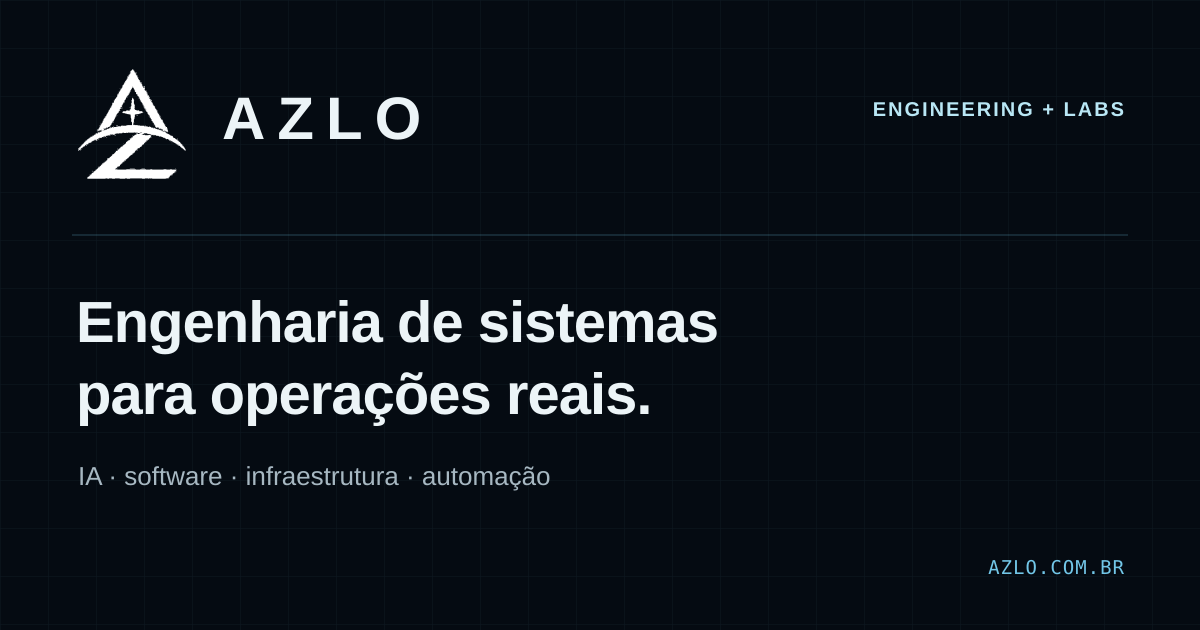
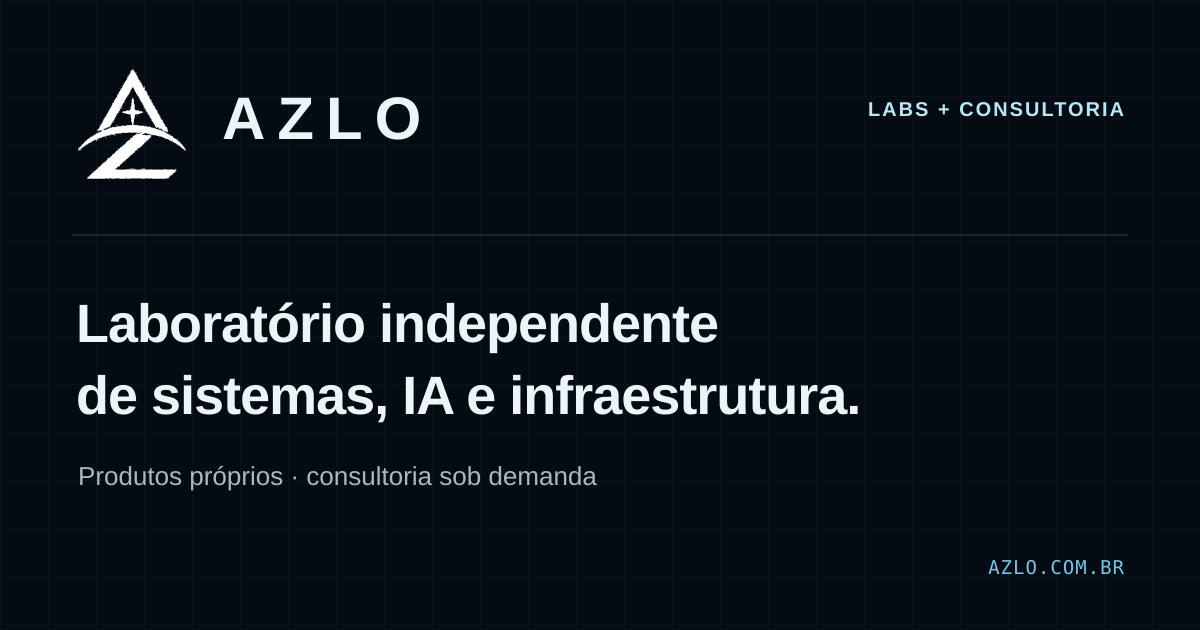
feat(site): reposition AZLO as independent lab with on-demand consulting
- Hero, navigation and metadata lead with the independent lab; Labs come first on the home page
- Engineering becomes on-demand consulting (/servicos keeps its URL)
- Founder highlighted with bio; Karson and Alan shown as collaborators
- Each Labs product states what visitors can do today (engagement)
- Social preview image and manifest updated to the new positioning

diff --git a/src/app/page.tsx b/src/app/page.tsx
@@ -1,7 +1,7 @@
 import Link from "next/link";
 import { ArrowRightIcon, ArrowUpRightIcon, MailIcon } from "@/components/site/Icons";
 import { ProductCard } from "@/components/site/ProductCard";
-import { products, services, featuredProjects, currentTeam, method, site, workTypeLabel } from "@/data/site";
+import { products, services, featuredProjects, currentTeam, founder, method, site, workTypeLabel } from "@/data/site";
 
 export default function Home() {
   return (
@@ -10,33 +10,19 @@ export default function Home() {
         <div className="hero__grid" aria-hidden="true" />
         <div className="site-frame hero__layout">
           <div className="hero__copy">
-            <p className="eyebrow eyebrow--light"><span />AZLO · ENGENHARIA DE SISTEMAS</p>
-            <h1>Engenharia para sistemas que precisam <em>funcionar no mundo real.</em></h1>
-            <p className="hero__lead">Entramos onde processo, dados e ambiente técnico precisam voltar a trabalhar juntos.</p>
-            <div className="hero__actions"><Link className="button button--primary" href="/contato">Descrever um problema <ArrowRightIcon /></Link><Link className="button button--secondary" href="/labs">Explorar Labs <ArrowRightIcon /></Link></div>
-            <p className="hero__proof">SISTEMAS · IA · INFRAESTRUTURA · AUTOMAÇÃO</p>
+            <p className="eyebrow eyebrow--light"><span />AZLO · LABORATÓRIO INDEPENDENTE</p>
+            <h1>Laboratório independente de sistemas, IA e <em>infraestrutura.</em></h1>
+            <p className="hero__lead">Produtos próprios para conhecimento, agentes, aprendizagem e operação, projetados por um médico que constrói sistemas. Também disponível para consultoria sob demanda.</p>
+            <div className="hero__actions"><Link className="button button--primary" href="/labs">Explorar Labs <ArrowRightIcon /></Link><Link className="button button--secondary" href="/contato">Conversar sobre um projeto <ArrowRightIcon /></Link></div>
+            <p className="hero__proof">LABS · PROJETOS · CONSULTORIA SOB DEMANDA</p>
           </div>
           <SystemTopology />
         </div>
       </section>
 
-      <section className="section topology-section">
-        <div className="site-frame">
-          <div className="section-heading section-heading--split"><div><p className="eyebrow"><span />MAPA DA OPERAÇÃO</p><h2>Contexto antes de <em>ferramenta.</em></h2></div><p>Uma operação deixa sinais. A engenharia organiza contexto antes de escolher a intervenção.</p></div>
-          <div className="topology-diagram"><p className="topology-diagram__flow mono-label">OPERAÇÃO → SINAL → CONTEXTO → INTERVENÇÃO → RETORNO</p><ol className="topology-rail"><li><span>01</span><strong>OPERAÇÃO</strong><small>Pessoas, rotinas, restrições</small></li><li><span>02</span><strong>SINAIS</strong><small>Dados, falhas, atrito</small></li><li className="is-active"><span>03</span><strong>CONTEXTO</strong><small>Fluxo, acesso, prioridade</small></li><li><span>04</span><strong>INTERVENÇÃO</strong><small>IA, software, infraestrutura</small></li><li><span>05</span><strong>RETORNO</strong><small>Operação mais clara</small></li></ol></div>
-        </div>
-      </section>
-
-      <section className="section engineering-section" id="engineering">
-        <div className="site-frame">
-          <div className="section-heading section-heading--split"><div><p className="eyebrow eyebrow--light"><span />AZLO / ENGINEERING</p><h2>Confiança na <em>execução.</em></h2></div><p>Capacidade organizada por tipo de intervenção. A tecnologia entra depois do problema e permanece ligada à operação.</p></div>
-          <div className="engineering-grid">{services.map((service) => <article className="engineering-module" key={service.index}><span className="engineering-module__number">{service.index}</span><p className="mono-label">{service.module}</p><h3>{service.title}</h3><p>{service.intervention}</p><ul>{service.capabilities.map((capability) => <li key={capability}>{capability}</li>)}</ul><Link href="/servicos">Ver módulo <ArrowRightIcon /></Link></article>)}</div>
-        </div>
-      </section>
-
       <section className="section labs-section" id="labs">
         <div className="site-frame">
-          <div className="section-heading section-heading--split"><div><p className="eyebrow"><span />AZLO / LABS</p><h2>Sistemas para raciocínio humano e <em>operação.</em></h2></div><p>Produtos e sistemas experimentais para conhecimento, agentes, aprendizado e infraestrutura, desenvolvidos dentro da AZLO.</p></div>
+          <div className="section-heading section-heading--split"><div><p className="eyebrow"><span />AZLO / LABS</p><h2>O que está sendo <em>construído.</em></h2></div><p>Sistemas próprios em estágios diferentes, do conceito à beta fechada. Cada um indica o que você pode fazer com ele hoje.</p></div>
           <div className="labs-grid">{products.map((product) => <ProductCard key={product.slug} product={product} featured={product.slug === "mnemusa"} />)}</div>
           <p className="labs-grid__hint mono-label">Use a faixa horizontal para explorar os sistemas <span aria-hidden="true">→</span></p>
           <Link className="section-link" href="/labs">Abrir matriz de produtos <ArrowRightIcon /></Link>
@@ -50,6 +36,22 @@ export default function Home() {
         </div>
       </section>
 
+      <section className="people-strip" id="company"><div className="site-frame people-strip__layout"><div><p className="eyebrow"><span />QUEM ESTÁ POR TRÁS</p><h2>Um fundador, <em>colaboradores próximos.</em></h2></div><div>{founder ? <p><b>{founder.name}</b> — {founder.bio}</p> : null}<ul>{currentTeam.map((member) => <li key={member.name}><b>{member.name}</b><span>{member.group === "founder" ? "Fundador" : `Colaborador · ${member.role}`}</span></li>)}</ul><Link className="text-link" href="/sobre#team">Conhecer a equipe <ArrowRightIcon /></Link></div></div></section>
+
+      <section className="section topology-section">
+        <div className="site-frame">
+          <div className="section-heading section-heading--split"><div><p className="eyebrow"><span />MAPA DA OPERAÇÃO</p><h2>Contexto antes de <em>ferramenta.</em></h2></div><p>Nos produtos e na consultoria, o ponto de partida é o mesmo: entender a operação antes de escolher a tecnologia.</p></div>
+          <div className="topology-diagram"><p className="topology-diagram__flow mono-label">OPERAÇÃO → SINAL → CONTEXTO → INTERVENÇÃO → RETORNO</p><ol className="topology-rail"><li><span>01</span><strong>OPERAÇÃO</strong><small>Pessoas, rotinas, restrições</small></li><li><span>02</span><strong>SINAIS</strong><small>Dados, falhas, atrito</small></li><li className="is-active"><span>03</span><strong>CONTEXTO</strong><small>Fluxo, acesso, prioridade</small></li><li><span>04</span><strong>INTERVENÇÃO</strong><small>IA, software, infraestrutura</small></li><li><span>05</span><strong>RETORNO</strong><small>Operação mais clara</small></li></ol></div>
+        </div>
+      </section>
+
+      <section className="section engineering-section" id="consultoria">
+        <div className="site-frame">
+          <div className="section-heading section-heading--split"><div><p className="eyebrow eyebrow--light"><span />AZLO / CONSULTORIA</p><h2>Consultoria sob <em>demanda.</em></h2></div><p>Além dos Labs, a AZLO aceita projetos pontuais nas mesmas áreas em que constrói: sistemas de saúde, IA, infraestrutura e automação.</p></div>
+          <div className="engineering-grid">{services.map((service) => <article className="engineering-module" key={service.index}><span className="engineering-module__number">{service.index}</span><p className="mono-label">{service.module}</p><h3>{service.title}</h3><p>{service.intervention}</p><ul>{service.capabilities.map((capability) => <li key={capability}>{capability}</li>)}</ul><Link href="/servicos">Ver área <ArrowRightIcon /></Link></article>)}</div>
+        </div>
+      </section>
+
       <section className="section method-section">
         <div className="site-frame">
           <div className="section-heading section-heading--split"><div><p className="eyebrow"><span />MÉTODO</p><h2>Entender. Desenhar. Construir. <em>Operar.</em></h2></div><p>A sequência reduz incerteza sem separar arquitetura, manutenção e responsabilidade.</p></div>
@@ -58,9 +60,7 @@ export default function Home() {
         </div>
       </section>
 
-      <section className="people-strip" id="company"><div className="site-frame people-strip__layout"><div><p className="eyebrow"><span />EQUIPE</p><h2>Pessoas próximas do <em>problema.</em></h2></div><div><p>Quem projeta participa da responsabilidade por manter o sistema compreensível, operável e rastreável.</p><ul>{currentTeam.map((member) => <li key={member.name}><b>{member.name}</b><span>{member.role}</span></li>)}</ul><Link className="text-link" href="/sobre#team">Conhecer equipe <ArrowRightIcon /></Link></div></div></section>
-
-      <section className="contact-band"><div className="site-frame contact-band__layout"><div><p className="eyebrow eyebrow--light"><span />CONTATO / CONTEXTO</p><h2>Tem uma operação que precisa voltar a fluir?</h2></div><div><p>Descreva o sistema, a fricção e o resultado que precisa acontecer.</p><a className="contact-band__email" href={`mailto:${site.email}?subject=Conversa%20com%20a%20AZLO`}><MailIcon /><span>Descrever um problema</span><ArrowUpRightIcon /></a><small>Abre seu cliente de e-mail. Não envie dados clínicos identificáveis, credenciais ou tokens.</small></div></div></section>
+      <section className="contact-band"><div className="site-frame contact-band__layout"><div><p className="eyebrow eyebrow--light"><span />CONTATO</p><h2>Gostou de um projeto ou tem um problema parecido?</h2></div><div><p>Conte o contexto: interesse em um produto dos Labs, uma colaboração ou uma consultoria pontual.</p><a className="contact-band__email" href={`mailto:${site.email}?subject=Conversa%20com%20a%20AZLO`}><MailIcon /><span>Escrever para a AZLO</span><ArrowUpRightIcon /></a><small>Abre seu cliente de e-mail. Não envie dados clínicos identificáveis, credenciais ou tokens.</small></div></div></section>
     </main>
   );
 }

diff --git a/src/data/site.ts b/src/data/site.ts
@@ -51,6 +51,7 @@ export type LabProduct = {
   currentState?: { version: string; label: string }[];
   roadmap?: string[];
   related: ProductSlug[];
+  engagement: { label: string; text: string };
 };
 
 export type TeamMember = {
@@ -59,20 +60,22 @@ export type TeamMember = {
   expertise: string[];
   initials: string;
   linkedin?: string;
+  group: "founder" | "collaborator";
+  bio?: string;
 };
 
 export const site = {
   name: "AZLO",
-  description: "Engenharia de sistemas, IA, software e infraestrutura para operações reais.",
+  description: "Laboratório independente de sistemas, IA e infraestrutura, com consultoria sob demanda.",
   email: "contato@azlo.com.br",
   url: "https://azlo.com.br",
 };
 
 export const navigation = [
-  { href: "/servicos", label: "Engenharia", shortLabel: "Engenharia" },
   { href: "/labs", label: "Labs", shortLabel: "Labs" },
   { href: "/projetos", label: "Projetos", shortLabel: "Projetos" },
-  { href: "/sobre#method", label: "Método", shortLabel: "Método" },
+  { href: "/servicos", label: "Consultoria", shortLabel: "Consultoria" },
+  { href: "/sobre", label: "Sobre", shortLabel: "Sobre" },
 ];
 
 export const services: Service[] = [
@@ -130,6 +133,7 @@ export const products: LabProduct[] = [
     currentState: [{ version: "v0.10.0", label: "ALPHA · ROADMAP PRINCIPAL CONCLUÍDO" }],
     roadmap: ["v0.10.0 conclui o roadmap principal", "Próximas decisões seguem pendentes; não são escopo aprovado"],
     related: ["hermes", "thoth", "atlas"],
+    engagement: { label: "CONVERSAR", text: "Aberto a conversas sobre arquitetura e uso experimental. Ainda sem licença definida; não use com dados reais." },
   },
   {
     slug: "thoth",
@@ -143,6 +147,7 @@ export const products: LabProduct[] = [
     system: "Thoth trabalha na camada de preparação e curadoria, mantendo a revisão humana como fronteira de publicação.",
     architecture: ["Pipelines de geração e edição", "Curadoria e auditoria", "Pré-pesagem editorial", "Revisão humana antes da publicação"],
     related: ["logos", "odin", "mnemusa"],
+    engagement: { label: "ACOMPANHAR", text: "Em estruturação. Acompanhe a evolução ou converse sobre curadoria de material educacional." },
   },
   {
     slug: "logos",
@@ -156,6 +161,7 @@ export const products: LabProduct[] = [
     system: "A plataforma conecta sessão, feedback, rating e próxima seleção. A vertical pública atual é apresentada como Logos / Med.",
     architecture: ["Sessões de prática", "Feedback e rating", "Seleção adaptativa", "Vertical Logos / Med"],
     related: ["thoth", "hermes"],
+    engagement: { label: "PEDIR ACESSO", text: "Beta fechada. Peça acesso para testar a vertical Logos / Med." },
   },
   {
     slug: "odin",
@@ -169,6 +175,7 @@ export const products: LabProduct[] = [
     system: "Odin organiza o caminho de pesquisa e recuperação; nomes técnicos como odin-cli e odin-core permanecem internos quando necessários.",
     architecture: ["Aquisição por DOI", "Camadas de recuperação", "Proveniência de fontes", "Fallback manual documentado"],
     related: ["thoth", "mnemusa"],
+    engagement: { label: "ACOMPANHAR", text: "Em incubação. Aberto a conversas sobre recuperação de literatura e pesquisa." },
   },
   {
     slug: "anubis",
@@ -182,6 +189,7 @@ export const products: LabProduct[] = [
     system: "Anubis é uma definição de sistema em estágio conceitual nesta superfície pública; não representa um produto operacional já disponível.",
     architecture: ["Inventário de artefatos", "Reconciliação de estado", "Preservação de rollback", "Modernização por etapas"],
     related: ["atlas", "hermes"],
+    engagement: { label: "ACOMPANHAR", text: "Conceito. Ainda não há versão disponível para uso." },
   },
   {
     slug: "hermes",
@@ -196,6 +204,7 @@ export const products: LabProduct[] = [
     system: "Hermes conecta interfaces, documentos e agentes com atenção à autorização, rastreabilidade e operação local quando aplicável.",
     architecture: ["Integração entre agentes", "Comunicação e documentos", "Interfaces operacionais", "Contribuições open source documentadas"],
     related: ["mnemusa", "atlas", "logos"],
+    engagement: { label: "COLABORAR", text: "Código aberto. Conversas técnicas e contribuições são bem-vindas." },
   },
   {
     slug: "atlas",
@@ -209,6 +218,7 @@ export const products: LabProduct[] = [
     system: "Atlas organiza investigação e operação assistida, mantendo ações limitadas, aprovação e rechecagem como fronteiras do sistema.",
     architecture: ["Sinais de Linux", "Fatos, hipóteses e linha do tempo", "Ações assistidas com aprovação", "Auditoria local"],
     related: ["anubis", "hermes", "mnemusa"],
+    engagement: { label: "CONVERSAR", text: "Em P&D. Aberto a conversas técnicas; ainda não há versão disponível para uso." },
   },
 ];
 
@@ -287,10 +297,12 @@ export const projects: Project[] = [
 export const currentTeam: TeamMember[] = [
   {
     name: "Gabriel Lorençato",
-    role: "Projetista",
-    expertise: ["Engenharia de Eficiência", "Otimização de Sistemas", "Medicina"],
+    role: "Fundador · médico e projetista de sistemas",
+    expertise: ["Medicina", "Engenharia de Eficiência", "Otimização de Sistemas"],
     initials: "GL",
     linkedin: "https://www.linkedin.com/in/gabriel-lorencato-593b44218",
+    group: "founder",
+    bio: "Médico. Concebe, projeta e constrói a maior parte dos sistemas da AZLO, do produto à infraestrutura.",
   },
   {
     name: "Karson Godinho",
@@ -298,6 +310,7 @@ export const currentTeam: TeamMember[] = [
     expertise: ["Engenharia de Dados", "Cybersegurança", "Banco Vetorial"],
     initials: "KG",
     linkedin: "https://www.linkedin.com/in/karson-godinho-6b88981b6",
+    group: "collaborator",
   },
   {
     name: "Alan Lima",
@@ -305,6 +318,7 @@ export const currentTeam: TeamMember[] = [
     expertise: ["PostgreSQL", "Oracle", "MongoDB", "Cloud"],
     initials: "AL",
     linkedin: "https://www.linkedin.com/in/alan-lima-7568451a5",
+    group: "collaborator",
   },
 ];
 
@@ -314,6 +328,9 @@ export const method = [
   { number: "03", title: "Construir", label: "CONSTRUIR", text: "Integrar e validar uma intervenção que caiba no ambiente real." },
   { number: "04", title: "Operar", label: "OPERAR", text: "Observar, documentar e evoluir com quem mantém o sistema." },
 ];
+
+export const founder = currentTeam.find((member) => member.group === "founder");
+export const collaborators = currentTeam.filter((member) => member.group === "collaborator");
 
 export const featuredProjects = projects.filter((project) => project.featured);
 export const caseStudyProjects = projects.filter((project) => project.caseStudy);

diff --git a/src/app/servicos/page.tsx b/src/app/servicos/page.tsx
@@ -3,8 +3,8 @@ import Link from "next/link";
 import { ArrowRightIcon } from "@/components/site/Icons";
 import { services } from "@/data/site";
 
-export const metadata: Metadata = { title: "Engenharia", description: "Sistemas clínicos, IA integrada, infraestrutura, dados e automação para operações reais.", alternates: { canonical: "/servicos" }, openGraph: { title: "Engenharia | AZLO", description: "Sistemas clínicos, IA integrada, infraestrutura, dados e automação para operações reais.", url: "/servicos" } };
+export const metadata: Metadata = { title: "Consultoria", description: "Áreas de consultoria sob demanda: sistemas de saúde, IA, infraestrutura, dados e automação.", alternates: { canonical: "/servicos" }, openGraph: { title: "Consultoria | AZLO", description: "Áreas de consultoria sob demanda: sistemas de saúde, IA, infraestrutura, dados e automação.", url: "/servicos" } };
 
 export default function ServicesPage() {
-  return <main id="main" className="engineering-page"><section className="page-hero page-hero--dark"><div className="page-hero__grid" aria-hidden="true" /><div className="site-frame"><p className="breadcrumb mono-label">AZLO / ENGINEERING</p><p className="eyebrow eyebrow--light"><span />ENGENHARIA DE SISTEMAS</p><h1>Intervenções que começam pelo <em>ambiente.</em></h1><p>Organizamos a atuação pelo que precisa mudar na operação — e usamos tecnologia como meio, não como produto isolado.</p><Link className="button button--primary page-hero__cta" href="/contato">Descrever um problema <ArrowRightIcon /></Link></div></section><section className="section section--light"><div className="site-frame"><div className="section-heading"><p className="eyebrow"><span />MÓDULOS DE ENGENHARIA</p><h2>Quatro camadas para fazer o sistema <em>operar.</em></h2></div><div className="engineering-grid engineering-grid--page">{services.map((service) => <article className="engineering-module" key={service.index}><span className="engineering-module__number">{service.index}</span><p className="mono-label">{service.module}</p><h3>{service.title}</h3><p>{service.intervention}</p><ul>{service.capabilities.map((capability) => <li key={capability}>{capability}</li>)}</ul><a href={`mailto:contato@azlo.com.br?subject=${encodeURIComponent(service.nextStep)}`}>{service.nextStep} <ArrowRightIcon /></a></article>)}</div></div></section><section className="section engineering-principles"><div className="site-frame"><div className="section-heading section-heading--split"><div><p className="eyebrow eyebrow--light"><span />LIMITES</p><h2>Contexto antes de <em>ferramenta.</em></h2></div><p>LLMs, agentes, RAG, bancos vetoriais, APIs, VPS e pipelines fazem parte do repertório. A escolha depende dos dados, permissões, infraestrutura e manutenção que o contexto suporta.</p></div><ul className="principle-rail"><li><span>01</span><strong>Observe</strong><p>Leia fluxo, sinais e impacto antes de intervir.</p></li><li><span>02</span><strong>Preserve</strong><p>Priorize consentimento, segurança, continuidade e reversibilidade.</p></li><li><span>03</span><strong>Opere</strong><p>Entregue uma mudança que possa ser mantida e compreendida.</p></li></ul></div></section></main>;
+  return <main id="main" className="engineering-page"><section className="page-hero page-hero--dark"><div className="page-hero__grid" aria-hidden="true" /><div className="site-frame"><p className="breadcrumb mono-label">AZLO / CONSULTORIA</p><p className="eyebrow eyebrow--light"><span />CONSULTORIA SOB DEMANDA</p><h1>Consultoria nas áreas em que o lab <em>constrói.</em></h1><p>Diagnósticos, projetos pontuais e colaborações em sistemas de saúde, IA, infraestrutura e automação, com a mesma exigência aplicada aos produtos próprios.</p><Link className="button button--primary page-hero__cta" href="/contato">Conversar sobre um projeto <ArrowRightIcon /></Link></div></section><section className="section section--light"><div className="site-frame"><div className="section-heading"><p className="eyebrow"><span />ÁREAS DE ATUAÇÃO</p><h2>Quatro áreas de <em>consultoria.</em></h2></div><div className="engineering-grid engineering-grid--page">{services.map((service) => <article className="engineering-module" key={service.index}><span className="engineering-module__number">{service.index}</span><p className="mono-label">{service.module}</p><h3>{service.title}</h3><p>{service.intervention}</p><ul>{service.capabilities.map((capability) => <li key={capability}>{capability}</li>)}</ul><a href={`mailto:contato@azlo.com.br?subject=${encodeURIComponent(service.nextStep)}`}>{service.nextStep} <ArrowRightIcon /></a></article>)}</div></div></section><section className="section engineering-principles"><div className="site-frame"><div className="section-heading section-heading--split"><div><p className="eyebrow eyebrow--light"><span />LIMITES</p><h2>Contexto antes de <em>ferramenta.</em></h2></div><p>LLMs, agentes, RAG, bancos vetoriais, APIs, VPS e pipelines fazem parte do repertório. A escolha depende dos dados, permissões, infraestrutura e manutenção que o contexto suporta.</p></div><ul className="principle-rail"><li><span>01</span><strong>Observe</strong><p>Leia fluxo, sinais e impacto antes de intervir.</p></li><li><span>02</span><strong>Preserve</strong><p>Priorize consentimento, segurança, continuidade e reversibilidade.</p></li><li><span>03</span><strong>Opere</strong><p>Entregue uma mudança que possa ser mantida e compreendida.</p></li></ul></div></section></main>;
 }

diff --git a/src/app/sobre/page.tsx b/src/app/sobre/page.tsx
@@ -4,8 +4,8 @@ import { ArrowRightIcon } from "@/components/site/Icons";
 import { TeamCard } from "@/components/site/TeamCard";
 import { currentTeam, method } from "@/data/site";
 
-export const metadata: Metadata = { title: "Método e equipe", description: "Como a AZLO entende, desenha, constrói e opera sistemas para contextos reais.", alternates: { canonical: "/sobre" }, openGraph: { title: "Método e equipe | AZLO", description: "Como a AZLO entende, desenha, constrói e opera sistemas para contextos reais.", url: "/sobre" } };
+export const metadata: Metadata = { title: "Método e equipe", description: "Quem está por trás da AZLO e como o laboratório entende, desenha, constrói e opera sistemas.", alternates: { canonical: "/sobre" }, openGraph: { title: "Método e equipe | AZLO", description: "Quem está por trás da AZLO e como o laboratório entende, desenha, constrói e opera sistemas.", url: "/sobre" } };
 
 export default function AboutPage() {
-  return <main id="main" className="company-page"><section className="page-hero page-hero--dark"><div className="page-hero__grid" aria-hidden="true" /><div className="site-frame"><p className="breadcrumb mono-label">AZLO / SOBRE</p><p className="eyebrow eyebrow--light"><span />MÉTODO / RESPONSABILIDADE</p><h1>Projetar para a realidade é uma escolha de <em>engenharia.</em></h1><p>A AZLO trabalha entre software, infraestrutura, dados e saúde. A medida é simples: o sistema precisa ser entendível, operável e responsável.</p></div></section><section className="section section--light" id="method"><div className="site-frame"><div className="section-heading section-heading--split"><div><p className="eyebrow"><span />MÉTODO</p><h2>Contexto antes de <em>ferramenta.</em></h2></div><p>Uma sequência curta para transformar um problema em sistema operável, com responsabilidades visíveis.</p></div><ol className="method-rail method-rail--large">{method.map((item) => <li key={item.number}><span>{item.number} / {item.label}</span><h3>{item.title}</h3><p>{item.text}</p></li>)}</ol></div></section><section className="section team-section" id="team"><div className="site-frame"><div className="section-heading section-heading--split"><div><p className="eyebrow"><span />EQUIPE ATUAL</p><h2>Pessoas próximas do <em>problema.</em></h2></div><p>Quem projeta e responde pelo sistema permanece visível no trabalho.</p></div><div className="team-grid">{currentTeam.map((member) => <TeamCard key={member.name} member={member} />)}</div><div className="future-team"><p className="eyebrow"><span />EXPANSÃO DA EQUIPE</p><h2>Expandimos capacidade com critério, quando o sistema pede.</h2><p className="future-team__copy">A AZLO conversa seletivamente sobre produto, engenharia e design. Não há vagas abertas anunciadas nesta página.</p><Link className="section-link" href="/contato">Falar com a AZLO <ArrowRightIcon /></Link></div></div></section></main>;
+  return <main id="main" className="company-page"><section className="page-hero page-hero--dark"><div className="page-hero__grid" aria-hidden="true" /><div className="site-frame"><p className="breadcrumb mono-label">AZLO / SOBRE</p><p className="eyebrow eyebrow--light"><span />MÉTODO / RESPONSABILIDADE</p><h1>Projetar para a realidade é uma escolha de <em>engenharia.</em></h1><p>A AZLO é um laboratório independente fundado por Gabriel Lorençato, médico que projeta e constrói sistemas. Trabalha entre software, infraestrutura, dados e saúde, com produtos próprios e consultoria sob demanda. A medida é simples: o sistema precisa ser entendível, operável e responsável.</p></div></section><section className="section section--light" id="method"><div className="site-frame"><div className="section-heading section-heading--split"><div><p className="eyebrow"><span />MÉTODO</p><h2>Contexto antes de <em>ferramenta.</em></h2></div><p>Uma sequência curta para transformar um problema em sistema operável, com responsabilidades visíveis.</p></div><ol className="method-rail method-rail--large">{method.map((item) => <li key={item.number}><span>{item.number} / {item.label}</span><h3>{item.title}</h3><p>{item.text}</p></li>)}</ol></div></section><section className="section team-section" id="team"><div className="site-frame"><div className="section-heading section-heading--split"><div><p className="eyebrow"><span />EQUIPE</p><h2>Um fundador, <em>colaboradores próximos.</em></h2></div><p>O fundador conduz a maior parte do projeto e da construção; os colaboradores somam experiência em dados, segurança e bancos de dados.</p></div><div className="team-grid">{currentTeam.map((member) => <TeamCard key={member.name} member={member} />)}</div><div className="future-team"><p className="eyebrow"><span />EXPANSÃO DA EQUIPE</p><h2>Expandimos capacidade com critério, quando o sistema pede.</h2><p className="future-team__copy">A AZLO conversa seletivamente sobre produto, engenharia e design. Não há vagas abertas anunciadas nesta página.</p><Link className="section-link" href="/contato">Falar com a AZLO <ArrowRightIcon /></Link></div></div></section></main>;
 }

diff --git a/src/app/contato/page.tsx b/src/app/contato/page.tsx
@@ -4,12 +4,12 @@ import { ProblemForm } from "@/components/site/ProblemForm";
 import { MailIcon, ArrowUpRightIcon } from "@/components/site/Icons";
 import { site } from "@/data/site";
 
-export const metadata: Metadata = { title: "Contato", description: "Descreva um problema de IA, infraestrutura, sistemas, dados ou automação para a AZLO.", alternates: { canonical: "/contato" }, openGraph: { title: "Contato | AZLO", description: "Descreva um problema de IA, infraestrutura, sistemas, dados ou automação para a AZLO.", url: "/contato" } };
+export const metadata: Metadata = { title: "Contato", description: "Fale com a AZLO sobre um produto dos Labs, uma colaboração ou uma consultoria em IA, infraestrutura, sistemas, dados ou automação.", alternates: { canonical: "/contato" }, openGraph: { title: "Contato | AZLO", description: "Fale com a AZLO sobre um produto dos Labs, uma colaboração ou uma consultoria em IA, infraestrutura, sistemas, dados ou automação.", url: "/contato" } };
 
 export default function ContactPage() {
   return (
     <main id="main" className="contact-page">
-      <section className="page-hero page-hero--dark contact-hero"><div className="page-hero__grid" aria-hidden="true" /><div className="site-frame contact-page__grid"><div><p className="breadcrumb mono-label">AZLO / CONTATO</p><p className="eyebrow eyebrow--light"><span />COMECE PELO CONTEXTO</p><h1>Descreva o problema. A conversa começa pelo <em>contexto.</em></h1></div><div><p>Se há um processo lento, um sistema difícil de integrar, uma infraestrutura a organizar ou uma hipótese de IA para testar, conte o cenário e o resultado necessário.</p><a className="contact-band__email" href={`mailto:${site.email}?subject=Conversa%20com%20a%20AZLO`}><MailIcon /><span>Descrever um problema</span><ArrowUpRightIcon /></a><div className="contact-actions"><CopyEmailButton email={site.email} /><small>{site.email} · abre seu cliente de e-mail</small></div><small className="boundary-note">Não envie dados clínicos identificáveis, credenciais, tokens ou informações pessoais sensíveis por e-mail.</small></div></div></section>
+      <section className="page-hero page-hero--dark contact-hero"><div className="page-hero__grid" aria-hidden="true" /><div className="site-frame contact-page__grid"><div><p className="breadcrumb mono-label">AZLO / CONTATO</p><p className="eyebrow eyebrow--light"><span />COMECE PELO CONTEXTO</p><h1>Conte o cenário. A conversa começa pelo <em>contexto.</em></h1></div><div><p>Interesse em um produto dos Labs, uma colaboração ou uma consultoria pontual: se há um processo lento, um sistema difícil de integrar, uma infraestrutura a organizar ou uma hipótese de IA para testar, conte o cenário e o resultado necessário.</p><a className="contact-band__email" href={`mailto:${site.email}?subject=Conversa%20com%20a%20AZLO`}><MailIcon /><span>Escrever para a AZLO</span><ArrowUpRightIcon /></a><div className="contact-actions"><CopyEmailButton email={site.email} /><small>{site.email} · abre seu cliente de e-mail</small></div><small className="boundary-note">Não envie dados clínicos identificáveis, credenciais, tokens ou informações pessoais sensíveis por e-mail.</small></div></div></section>
       <section className="section section--light contact-form-section"><div className="site-frame contact-form-section__grid"><div><p className="eyebrow"><span />DESCREVER UM PROBLEMA</p><h2>Um primeiro contexto é suficiente para começar.</h2><p>O formulário prepara uma mensagem no seu cliente de e-mail. Não há envio automático nem armazenamento de dados nesta superfície.</p></div><ProblemForm /></div></section>
       <section className="section section--light"><div className="site-frame"><div className="section-heading"><p className="eyebrow"><span />PRIMEIRA MENSAGEM</p><h2>Três sinais para começar uma conversa <em>útil.</em></h2></div><div className="principle-rail principle-rail--light"><article><span>01</span><strong>Contexto</strong><p>Qual operação, equipe ou sistema está envolvido?</p></article><article><span>02</span><strong>Fricção</strong><p>Onde há perda de tempo, risco, retrabalho ou dificuldade de acesso?</p></article><article><span>03</span><strong>Resultado</strong><p>O que precisaria estar diferente para a intervenção fazer sentido?</p></article></div></div></section>
     </main>

diff --git a/src/components/site/SiteFooter.tsx b/src/components/site/SiteFooter.tsx
@@ -1,5 +1,5 @@
 import Link from "next/link";
-import { navigation, products, site } from "@/data/site";
+import { products, site } from "@/data/site";
 
 export function SiteFooter() {
   return (
@@ -10,11 +10,11 @@ export function SiteFooter() {
             <img src="/logos/azlo-symbol-real-white.png" width="350" height="355" alt="" />
             <span>AZLO</span>
           </Link>
-          <p>ENGENHARIA PARA SISTEMAS QUE PRECISAM OPERAR.</p>
+          <p>LABORATÓRIO INDEPENDENTE DE SISTEMAS, IA E INFRAESTRUTURA.</p>
           <strong>Inteligência exige infraestrutura.</strong>
         </div>
         <div className="site-footer__column">
-          <p className="mono-label">ENGENHARIA</p>
+          <p className="mono-label">CONSULTORIA</p>
           <Link href="/servicos">Sistemas & saúde</Link>
           <Link href="/servicos">IA & conhecimento</Link>
           <Link href="/servicos">Infraestrutura & dados</Link>
@@ -26,7 +26,8 @@ export function SiteFooter() {
         </div>
         <div className="site-footer__column">
           <p className="mono-label">AZLO</p>
-          {navigation.slice(2).map((item) => <Link key={item.href} href={item.href}>{item.label}</Link>)}
+          <Link href="/projetos">Projetos</Link>
+          <Link href="/sobre">Sobre e método</Link>
           <Link href="/sobre#team">Equipe</Link>
           <a className="site-footer__email" href={`mailto:${site.email}?subject=Conversa%20com%20a%20AZLO`}>{site.email}</a>
         </div>

diff --git a/src/app/layout.tsx b/src/app/layout.tsx
@@ -19,21 +19,21 @@ const hanken = localFont({
 
 export const metadata: Metadata = {
   metadataBase: new URL(site.url),
-  title: { default: "AZLO | Engenharia para operações reais", template: "%s | AZLO" },
+  title: { default: "AZLO | Laboratório independente de sistemas e IA", template: "%s | AZLO" },
   description: site.description,
   alternates: { canonical: "/" },
   openGraph: {
     type: "website",
     url: site.url,
     siteName: site.name,
-    title: "AZLO | Engenharia para operações reais",
+    title: "AZLO | Laboratório independente de sistemas e IA",
     description: site.description,
-    images: [{ url: "/og-image.png", width: 1200, height: 630, alt: "AZLO — engenharia de sistemas para operações reais." }],
+    images: [{ url: "/og-image.png", width: 1200, height: 630, alt: "AZLO — laboratório independente de sistemas, IA e infraestrutura." }],
     locale: "pt_BR",
   },
   twitter: {
     card: "summary_large_image",
-    title: "AZLO | Engenharia para operações reais",
+    title: "AZLO | Laboratório independente de sistemas e IA",
     description: site.description,
     images: ["/og-image.png"],
   },

diff --git a/src/components/site/ProductTemplate.tsx b/src/components/site/ProductTemplate.tsx
@@ -1,5 +1,5 @@
 import Link from "next/link";
-import { getProduct, productStatusLabel, type LabProduct } from "@/data/site";
+import { getProduct, productStatusLabel, site, type LabProduct } from "@/data/site";
 import { ArrowRightIcon } from "./Icons";
 import { Sigil } from "./Sigil";
 
@@ -22,6 +22,7 @@ export function ProductTemplate({ product }: { product: LabProduct }) {
             {product.version ? <span><b>VERSÃO</b>{product.version}</span> : null}
             {product.distribution ? <span><b>DISTRIBUIÇÃO</b>{product.distribution === "OPEN SOURCE" ? "CÓDIGO ABERTO" : product.distribution}</span> : null}
             <span><b>FRENTE</b>AZLO / LABS</span>
+            <span><b>PARA VOCÊ · {product.engagement.label}</b>{product.engagement.text} <a href={`mailto:${site.email}?subject=${encodeURIComponent(`Interesse em ${product.name}`)}`}>Falar sobre {product.name}</a></span>
           </aside>
         </div>
       </section>

diff --git a/src/app/globals.css b/src/app/globals.css
@@ -328,6 +328,7 @@ h1 em, h2 em, h3 em { color: var(--accent); font-style: normal; }
 .team-card__photo span { position: relative; z-index: 1; display: grid; width: 4.3rem; height: 4.3rem; border: 1px solid var(--accent); color: var(--accent-soft); font-size: 1.25rem; place-items: center; }
 
 .team-card__identity { padding-top: 1.2rem; }
+.team-card__identity .team-card__bio { margin-top: 0.6rem; color: var(--text-secondary); font-family: inherit; font-size: 0.86rem; letter-spacing: 0; text-transform: none; line-height: 1.5; }
 .team-card__identity p { color: var(--accent); font-family: var(--mono); font-size: 0.57rem; letter-spacing: 0.08em; text-transform: uppercase; }
 .team-card__identity h3 { margin-top: 0.55rem; font-size: 1.6rem; line-height: 1; }
 .team-card__identity strong { display: block; margin-top: 0.6rem; color: var(--text-secondary); font-size: 0.78rem; }

diff --git a/src/components/site/MobileNav.tsx b/src/components/site/MobileNav.tsx
@@ -49,7 +49,7 @@ export function MobileNav() {
           const active = base === "/" ? pathname === "/" : pathname.startsWith(base);
           return <Link key={item.href} href={item.href} ref={index === 0 ? firstLinkRef : undefined} onClick={closeMenu} className={active ? "is-active" : undefined} aria-current={active ? "page" : undefined}><span>0{index + 1}</span>{item.label}</Link>;
         })}
-        <Link className="mobile-nav__cta" href="/contato" onClick={closeMenu}>Descrever um problema</Link>
+        <Link className="mobile-nav__cta" href="/contato" onClick={closeMenu}>Conversar sobre um projeto</Link>
         <a href={`mailto:${site.email}?subject=Conversa%20com%20a%20AZLO`}><MailIcon /> {site.email}</a>
       </nav>
     </details>

diff --git a/src/components/site/ProductCard.tsx b/src/components/site/ProductCard.tsx
@@ -22,6 +22,7 @@ export function ProductCard({ product, featured = false }: ProductCardProps) {
         <span><b>ESTADO</b>{productStatusLabel(product.status)}</span>
         {product.version ? <span><b>VERSÃO</b>{product.version}</span> : null}
         {product.distribution ? <span><b>DISTRIBUIÇÃO</b>{product.distribution === "OPEN SOURCE" ? "CÓDIGO ABERTO" : product.distribution}</span> : null}
+        <span><b>PARA VOCÊ</b>{product.engagement.label}</span>
       </div>
       <Link className="product-card__link" href={`/labs/${product.slug}`}>
         Explorar sistema <ArrowRightIcon />

diff --git a/src/components/site/TeamCard.tsx b/src/components/site/TeamCard.tsx
@@ -8,9 +8,10 @@ export function TeamCard({ member }: { member: TeamMember }) {
         <span>{member.initials}</span>
       </div>
       <div className="team-card__identity">
-        <p>Equipe atual</p>
+        <p>{member.group === "founder" ? "Fundador" : "Colaborador"}</p>
         <h3>{member.name}</h3>
         <strong>{member.role}</strong>
+        {member.bio ? <p className="team-card__bio">{member.bio}</p> : null}
       </div>
       <ul className="team-card__expertise" aria-label={`Especialidades de ${member.name}`}>
         {member.expertise.map((item) => <li key={item}>{item}</li>)}
